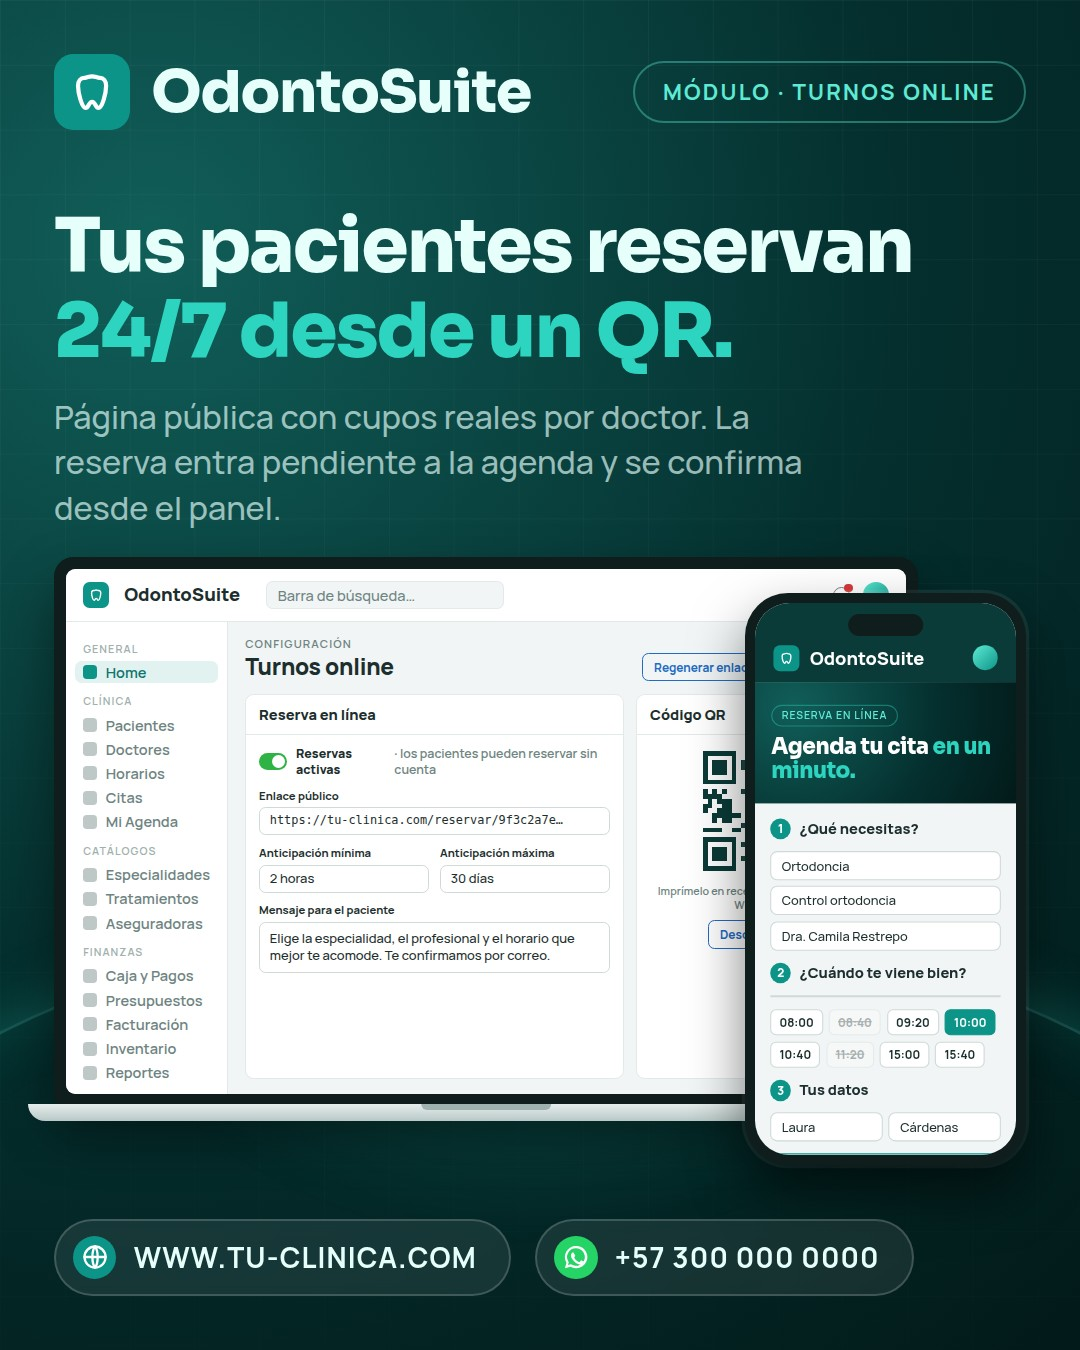
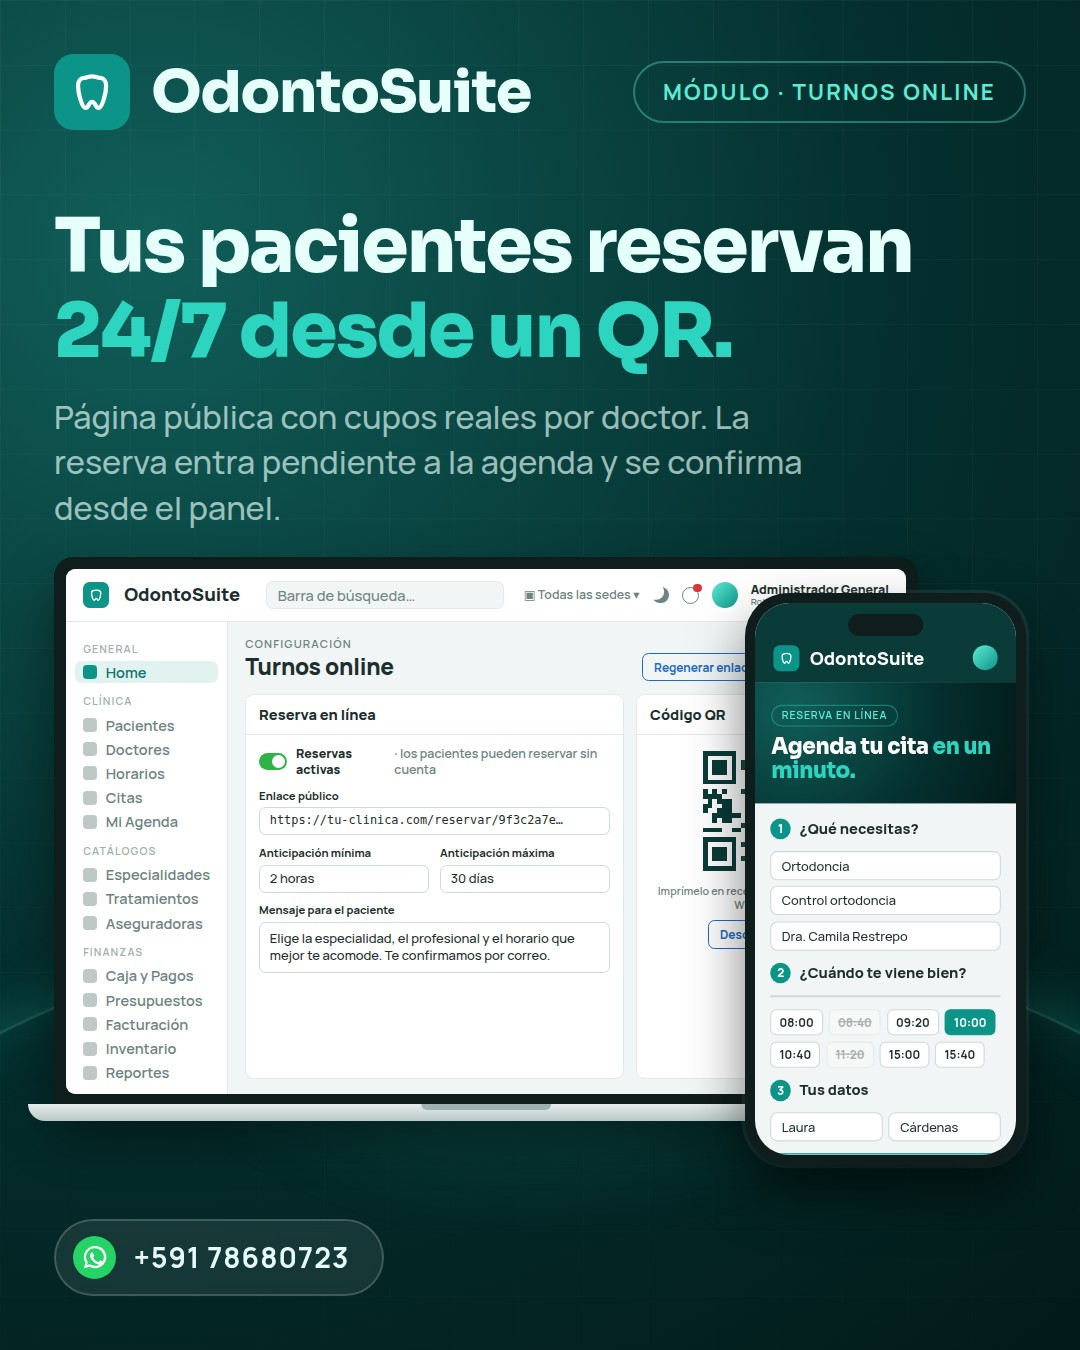
Dejar solo WhatsApp y rehacer el odontograma en arco
Se quita el sitio web de las piezas y queda únicamente el WhatsApp
+591 78680723. La pieza del odontograma ahora reproduce la pantalla real:
arcada superior en arco con paladar, atajos numéricos por hallazgo,
Pintar cara / Pieza completa, deshacer y rehacer, selector de sedes y
panel de caras de la pieza 16.

Claude-Session: https://claude.ai/code/session_017zrxF5B9L9htQGLorfkQio

diff --git a/docs/presentaciones/index.html b/docs/presentaciones/index.html
@@ -188,7 +188,6 @@ h1, h2, h3 { text-wrap: balance; }
 }
 .badge .ic { width: 4cqw; height: 4cqw; border-radius: 50%; display: grid; place-items: center; flex: none; }
 .badge .ic svg { width: 2.6cqw; height: 2.6cqw; }
-.badge.web .ic { background: var(--brand); }
 .badge.wa .ic { background: #25d366; }
 
 /* Formato 4:5 */
@@ -217,6 +216,7 @@ h1, h2, h3 { text-wrap: balance; }
 .grid[data-fmt="story"] .phone .screen { border-radius: 4.2cqw; }
 .grid[data-fmt="story"] .phone .island { width: 9cqw; height: 2.5cqw; top: 1.3cqw; }
 .grid[data-fmt="story"] .badges { margin-top: 5cqw; justify-content: center; gap: 2.5cqw; }
+.grid[data-fmt="story"] .badge { font-size: 3.2cqw; }
 .grid[data-fmt="story"] .badge { font-size: 2.7cqw; padding: 1.6cqw 3cqw 1.6cqw 1.8cqw; }
 .grid[data-fmt="story"] .badge .ic { width: 4.4cqw; height: 4.4cqw; }
 .grid[data-fmt="story"] .badge .ic svg { width: 3.2cqw; height: 3.2cqw; }
@@ -233,6 +233,11 @@ h1, h2, h3 { text-wrap: balance; }
 .ui-nav .search { flex: 1; max-width: 22cqw; margin-left: 1cqw; height: 2.6cqw; border-radius: .6cqw; border: .12cqw solid var(--ui-line); background: var(--ui-bg); color: var(--ui-muted); font-weight: 500; font-size: 1.35cqw; display: flex; align-items: center; padding-inline: 1cqw; }
 .ui-nav .right { margin-left: auto; display: flex; align-items: center; gap: 1.2cqw; }
 .dot { width: 2.4cqw; height: 2.4cqw; border-radius: 50%; background: linear-gradient(135deg, #5eead4, #0d9488); }
+.ui-nav .sedes { font-size: 1.15cqw; color: var(--ui-muted); white-space: nowrap; }
+.ui-nav .moon { width: 1.5cqw; height: 1.5cqw; border-radius: 50%; box-shadow: inset -.45cqw -.3cqw 0 0 var(--ui-muted); }
+.ui-nav .who { display: flex; flex-direction: column; line-height: 1.15; white-space: nowrap; }
+.ui-nav .who b { font-size: 1.15cqw; }
+.ui-nav .who small { font-size: .85cqw; color: var(--ui-muted); font-weight: 600; }
 .bell { position: relative; width: 1.6cqw; height: 1.6cqw; border-radius: 50%; border: .18cqw solid var(--ui-muted); }
 .bell::after { content: ""; position: absolute; top: -.35cqw; right: -.35cqw; width: .8cqw; height: .8cqw; border-radius: 50%; background: var(--ui-danger); }
 .ui-main { display: flex; flex: 1; min-height: 0; }
@@ -298,6 +303,17 @@ h1, h2, h3 { text-wrap: balance; }
 .crd .h > .hz-lbl { flex: none; font-size: 1.05cqw; letter-spacing: .08em; color: var(--ui-muted); }
 .hz { font-size: 1.05cqw; font-weight: 700; padding: .4cqw .8cqw; border-radius: .5cqw; border: .12cqw solid var(--c); color: var(--c); background: #fff; white-space: nowrap; }
 .hz.on { box-shadow: inset 0 0 0 .15cqw var(--c); }
+.hz .k { font-style: normal; font-size: .8cqw; background: #f1f5f5; color: #9fb0ae; border-radius: .3cqw; padding: 0 .35cqw; margin-left: .45cqw; }
+.hz-sm .hz { font-size: .88cqw; padding: .25cqw .5cqw; }
+.hz-sm .hz .k { font-size: .68cqw; margin-left: .3cqw; }
+.crd.arco-card { flex: 1; }
+.crd.arco-card .b { flex: 1; min-height: 0; display: flex; flex-direction: column; }
+.arco-wrap { flex: 1; min-height: 0; display: flex; justify-content: center; }
+.arco-svg { display: block; height: 100%; width: auto; max-width: 100%; }
+.odo-tools { display: flex; align-items: center; gap: .6cqw; font-size: 1.05cqw; color: var(--ui-muted); flex-wrap: wrap; }
+.odo-tools .tb { border: .12cqw solid #cfdad8; border-radius: .5cqw; padding: .4cqw .8cqw; color: var(--ui-ink); font-weight: 700; white-space: nowrap; background: #fff; }
+.odo-tools .tb.on { border-color: var(--ui-primary); color: var(--ui-primary); background: #eaf2fb; }
+.odo-tools .tb.rd { border-color: var(--ui-danger); color: var(--ui-danger); margin-left: auto; }
 .leg { display: flex; flex-wrap: wrap; gap: .4cqw 1cqw; font-size: .95cqw; color: var(--ui-muted); justify-content: center; }
 .leg span { display: inline-flex; align-items: center; gap: .35cqw; }
 .leg i { width: .8cqw; height: .8cqw; border-radius: .2cqw; border: .1cqw solid rgba(0,0,0,.2); }
@@ -374,19 +390,15 @@ body[data-export] .card { border-radius: 0; box-shadow: none; }
 <header class="toolbar" aria-label="Ajustes de las piezas">
   <div class="title">
     <h1>Odonto<span>Suite</span> · Presentaciones</h1>
-    <p>Piezas promocionales de los módulos principales. Cambia marca, contacto y formato; todas las piezas se actualizan a la vez.</p>
+    <p>Piezas promocionales de los módulos principales. Cambia marca, WhatsApp y formato; todas las piezas se actualizan a la vez.</p>
   </div>
   <div class="field">
     <label for="marca">Marca</label>
     <input id="marca" type="text" value="OdontoSuite" autocomplete="off">
   </div>
   <div class="field">
-    <label for="web">Sitio web</label>
-    <input id="web" type="text" value="WWW.TU-CLINICA.COM" autocomplete="off">
-  </div>
-  <div class="field">
     <label for="wa">WhatsApp</label>
-    <input id="wa" type="text" value="+57 300 000 0000" autocomplete="off">
+    <input id="wa" type="text" value="+591 78680723" autocomplete="off">
   </div>
   <div class="seg" role="radiogroup" aria-label="Formato">
     <span class="seg-label">Formato</span>
@@ -430,7 +442,7 @@ body[data-export] .card { border-radius: 0; box-shadow: none; }
     ['Catálogos', ['Especialidades', 'Tratamientos', 'Aseguradoras']],
     ['Finanzas', ['Caja y Pagos', 'Presupuestos', 'Facturación', 'Inventario', 'Reportes']],
   ];
-  const nav = (brand) => `<div class="ui-nav"><span class="mark">${tooth()}</span><b>${brand}</b><span class="search">Barra de búsqueda…</span><span class="right"><span class="bell"></span><span class="dot"></span></span></div>`;
+  const nav = (brand) => `<div class="ui-nav"><span class="mark">${tooth()}</span><b>${brand}</b><span class="search">Barra de búsqueda…</span><span class="right"><span class="sedes">▣ Todas las sedes ▾</span><span class="moon"></span><span class="bell"></span><span class="dot"></span><span class="who"><b>Administrador General</b><small>Rol: SUPER ADMINISTRADOR</small></span></span></div>`;
   const side = (active) => `<aside class="ui-side">${MODS.map(([g, items]) => `<div class="grp">${g}</div>` + items.map(n => `<div class="it ${n === active ? 'on' : ''}"><i></i>${n}</div>`).join('')).join('')}</aside>`;
   const shell = (brand, active, body) => `<div class="ui">${nav(brand)}<div class="ui-main">${side(active)}<div class="ui-body">${body}</div></div></div>`;
   const ph = (pre, title, actions = '') => `<div class="ph"><div><div class="pre">${pre}</div><h4>${title}</h4></div><div>${actions}</div></div>`;
@@ -468,7 +480,26 @@ body[data-export] .card { border-radius: 0; box-shadow: none; }
     <div class="arch"><div class="quad">${range(18, 11).map(n => pieza(n, active)).join('')}</div><div class="quad">${range(21, 28).map(n => pieza(n, active)).join('')}</div></div>
     <div class="arch"><div class="quad">${range(48, 41).map(n => pieza(n, active)).join('')}</div><div class="quad">${range(31, 38).map(n => pieza(n, active)).join('')}</div></div>
   </div>`;
+  /* Arcada superior en arco, con paladar y numeración por fuera */
+  const HALL_ARCO = { 16: { all: 'corona' }, 15: { o: 'corona' }, 14: { o: 'corona' }, 12: { all: 'movilidad' }, 21: { o: 'caries' }, 23: { all: 'obturado' } };
+  const arco = (active = 16) => {
+    const nums = [18, 17, 16, 15, 14, 13, 12, 11, 21, 22, 23, 24, 25, 26, 27, 28];
+    const cx = 200, cy = 205, rx = 168, ry = 178, S = 34;
+    const faces = (h) => { const f = (k) => EST[(h.all || h[k]) || 'sano']; return `<polygon points="4,4 30,4 23,11 11,11" fill="${f('v')}"/><polygon points="30,4 30,30 23,23 23,11" fill="${f('d')}"/><polygon points="4,30 11,23 23,23 30,30" fill="${f('l')}"/><polygon points="4,4 11,11 11,23 4,30" fill="${f('m')}"/><rect x="11" y="11" width="12" height="12" fill="${f('o')}"/>`; };
+    let g = '';
+    nums.forEach((n, i) => {
+      const t = Math.PI + 0.42 - (Math.PI + 0.84) * ((i + 0.5) / 16);
+      const x = cx + rx * Math.cos(t), y = cy - ry * Math.sin(t);
+      const lx = cx + (rx + 30) * Math.cos(t), ly = cy - (ry + 30) * Math.sin(t);
+      const rot = 90 - t * 180 / Math.PI;
+      const on = n === active;
+      g += `<g transform="translate(${x.toFixed(1)} ${y.toFixed(1)}) rotate(${rot.toFixed(1)})"><g transform="translate(${-S / 2} ${-S / 2})" stroke="${on ? '#0d9488' : '#6b7f7e'}" stroke-width="${on ? 2.2 : 1.3}"><rect x="0" y="0" width="${S}" height="${S}" rx="8" fill="#fff"/>${faces(HALL_ARCO[n] || {})}</g></g><text x="${lx.toFixed(1)}" y="${(ly + 4).toFixed(1)}" text-anchor="middle" font-size="12" font-weight="${on ? 800 : 700}" fill="${on ? '#0f766e' : '#3b4a49'}" font-family="Manrope">${n}</text>`;
+    });
+    return `<svg class="arco-svg" viewBox="0 0 400 270" aria-hidden="true"><path d="M118 258 C 128 130, 165 62, 200 62 C 235 62, 272 130, 282 258 Z" fill="rgba(214,57,57,.10)" stroke="rgba(214,57,57,.45)" stroke-dasharray="4 3"/><text x="200" y="200" text-anchor="middle" font-size="12" font-weight="800" letter-spacing="1.5" fill="#3b4a49" font-family="Manrope">SUPERIOR</text>${g}</svg>`;
+  };
   const HZ = [['Caries', EST.caries], ['Fractura', EST.fractura], ['Extracción', EST.extraccion], ['Movilidad', EST.movilidad], ['Obturado', EST.obturado], ['Corona', EST.corona], ['Endodoncia', EST.endodoncia], ['Sellante', EST.sellante], ['Implante', EST.implante], ['Prótesis', EST.protesis], ['Ausente', EST.ausente]];
+  const KEYS = { Caries: 1, Fractura: 2, 'Extracción': 3, Movilidad: 4, Obturado: 5, Corona: 6, Endodoncia: 7, Sellante: 8, Implante: 9 };
+  const hallazgosTeclas = (on = 'Corona') => `<div class="hallazgos">${HZ.map(([n, c]) => `<span class="hz ${n === on ? 'on' : ''}" style="--c:${c}">${n}${KEYS[n] ? `<i class="k">${KEYS[n]}</i>` : ''}</span>`).join('')}<span class="hz" style="--c:#6f8482">⌫ Borrar<i class="k">0</i></span></div>`;
   const hallazgos = (on = 'Caries') => `<div class="hallazgos">${HZ.map(([n, c]) => `<span class="hz ${n === on ? 'on' : ''}" style="--c:${c}">${n}</span>`).join('')}</div>`;
   const leyenda = `<div class="leg">${HZ.slice(0, 8).map(([n, c]) => `<span><i style="background:${c}"></i>${n}</span>`).join('')}</div>`;
   const faceBig = `<svg class="face-big" viewBox="0 0 100 100" aria-hidden="true"><g stroke="#3b4a49" stroke-width="1.2"><polygon points="2,2 98,2 72,28 28,28" fill="${EST.caries}"/><polygon points="98,2 98,98 72,72 72,28" fill="#fff"/><polygon points="2,98 28,72 72,72 98,98" fill="#fff"/><polygon points="2,2 28,28 28,72 2,98" fill="#fff"/><rect x="28" y="28" width="44" height="44" fill="${EST.caries}"/></g><text x="50" y="18" text-anchor="middle" font-size="7" font-weight="800" fill="#fff" font-family="Manrope">VESTIBULAR</text><text x="50" y="88" text-anchor="middle" font-size="7" font-weight="800" fill="#3b4a49" font-family="Manrope">LINGUAL</text><text x="50" y="52" text-anchor="middle" font-size="6.5" font-weight="800" fill="#fff" font-family="Manrope">OCLUSAL</text><text x="14" y="52" text-anchor="middle" font-size="6" font-weight="800" fill="#3b4a49" font-family="Manrope" transform="rotate(-90 14 52)">MESIAL</text><text x="86" y="52" text-anchor="middle" font-size="6" font-weight="800" fill="#3b4a49" font-family="Manrope" transform="rotate(90 86 52)">DISTAL</text></svg>`;
@@ -547,13 +578,16 @@ body[data-export] .card { border-radius: 0; box-shadow: none; }
       h: `Odontograma interactivo <em>por pieza y cara.</em>`,
       p: 'Numeración FDI, adulto e infantil, 11 hallazgos por capas y presupuesto generado desde los hallazgos.',
       laptop: shell(b, 'Pacientes', ph('Historia clínica · Valentina Ríos', 'Odontograma adulto', `<span class="btn o sm">Generar presupuesto</span> <span class="btn brand sm">Guardar</span>`) +
-        `<div class="cols" style="grid-template-columns:1fr">${crd(`<span class="hz-lbl">HALLAZGO:</span>${hallazgos('Caries')}`, `<div class="b" style="display:flex;flex-direction:column;gap:.9cqw">${odonto(16)}${leyenda}</div>`)}</div>`),
+        `<div class="cols" style="grid-template-columns:2.1fr 1fr">${crd(`<span class="hz-lbl">HALLAZGO:</span><span class="hz-sm" style="display:contents">${hallazgosTeclas('Corona')}</span>`, `<div class="b" style="gap:.7cqw;padding-top:.7cqw">
+          <div class="odo-tools"><span class="tb on">▢ Pintar cara</span><span class="tb">Pieza completa</span><span class="tb">↶</span><span class="tb">↷</span><span>⌨ 1-9 hallazgo · ← → pieza</span><span class="tb rd">⌫ Limpiar todo</span></div>
+          <div class="arco-wrap">${arco(16)}</div></div>`).replace('class="crd"', 'class="crd arco-card"')}
+        ${crd('Pieza 16', `<div class="b" style="display:flex;flex-direction:column;gap:.7cqw"><div style="width:9cqw;margin:0 auto">${faceBig.split(EST.caries).join(EST.corona)}</div><div style="font-size:.95cqw;color:var(--ui-muted);text-align:center">Toca una cara para aplicarle el hallazgo elegido.</div><div class="lbl">PIEZA COMPLETA</div>${hallazgos('Corona')}<div class="lbl">CARAS</div><div class="caras"><span>Vestibular</span><span class="sel"><i style="background:#fff;border:.1cqw solid #cfdad8"></i>Sano ▾</span><span>Lingual</span><span class="sel"><i style="background:#fff;border:.1cqw solid #cfdad8"></i>Sano ▾</span></div></div>`, '1er molar superior')}</div>`),
       phone: pshell(b, 'Pacientes', `<div style="display:flex;align-items:center;justify-content:space-between"><div style="font-size:1.6cqw;font-weight:800">Pieza 16</div>${pill('1er molar superior', PR)}</div>
-        <div style="width:11cqw;margin:0 auto">${faceBig}</div>
+        <div style="width:11cqw;margin:0 auto">${faceBig.split(EST.caries).join(EST.corona)}</div>
         <div style="font-size:.95cqw;color:var(--ui-muted);text-align:center;font-weight:500">Toca una cara para aplicarle el hallazgo elegido.</div>
-        <div class="lbl">PIEZA COMPLETA</div>${hallazgos('Caries')}
+        <div class="lbl">PIEZA COMPLETA</div>${hallazgos('Corona')}
         <div class="lbl" style="margin-top:.3cqw">CARAS</div>
-        <div class="caras"><span>Vestibular</span><span class="sel"><i style="background:${EST.caries}"></i>Caries</span><span>Oclusal</span><span class="sel"><i style="background:${EST.caries}"></i>Caries</span><span>Lingual</span><span class="sel"><i style="background:#fff;border:.1cqw solid #cfdad8"></i>Sano</span><span>Mesial</span><span class="sel"><i style="background:#fff;border:.1cqw solid #cfdad8"></i>Sano</span></div>`),
+        <div class="caras"><span>Vestibular</span><span class="sel"><i style="background:${EST.corona}"></i>Corona</span><span>Oclusal</span><span class="sel"><i style="background:${EST.corona}"></i>Corona</span><span>Lingual</span><span class="sel"><i style="background:#fff;border:.1cqw solid #cfdad8"></i>Sano</span><span>Mesial</span><span class="sel"><i style="background:#fff;border:.1cqw solid #cfdad8"></i>Sano</span></div>`),
     },
     {
       chip: 'Módulo · Historia Clínica',
@@ -656,8 +690,7 @@ body[data-export] .card { border-radius: 0; box-shadow: none; }
 
   function render() {
     const brand = esc($('marca').value.trim() || 'OdontoSuite');
-    const web = esc($('web').value.trim() || 'WWW.TU-CLINICA.COM');
-    const wa = esc($('wa').value.trim() || '+57 300 000 0000');
+    const wa = esc($('wa').value.trim() || '+591 78680723');
     const piezas = PIEZAS(brand);
     grid.innerHTML = piezas.map((p, i) => `<article class="post" data-n="${i + 1}">
       <div class="card">
@@ -668,7 +701,7 @@ body[data-export] .card { border-radius: 0; box-shadow: none; }
           <div class="laptop"><div class="lid"><div class="screen">${p.laptop}</div></div><div class="base"></div></div>
           <div class="phone"><div class="body"><div class="screen"><span class="island"></span>${p.phone}</div></div></div>
         </div>
-        <div class="badges"><span class="badge web"><span class="ic">${globe}</span>${web}</span><span class="badge wa"><span class="ic">${wapp}</span>${wa}</span></div>
+        <div class="badges"><span class="badge wa"><span class="ic">${wapp}</span>${wa}</span></div>
       </div>
       <div class="post-label"><b>${String(i + 1).padStart(2, '0')} · ${p.chip.replace('Módulo · ', '')}</b><span>${esc(brand)}</span></div>
     </article>`).join('');
@@ -677,23 +710,21 @@ body[data-export] .card { border-radius: 0; box-shadow: none; }
   /* Preferencias por visitante */
   const KEY = 'odontosuite-presentaciones';
   const load = () => { try { return JSON.parse(localStorage.getItem(KEY) || '{}'); } catch { return {}; } };
-  const save = () => { try { localStorage.setItem(KEY, JSON.stringify({ marca: $('marca').value, web: $('web').value, wa: $('wa').value, fmt: grid.dataset.fmt })); } catch {} };
+  const save = () => { try { localStorage.setItem(KEY, JSON.stringify({ marca: $('marca').value, wa: $('wa').value, fmt: grid.dataset.fmt })); } catch {} };
 
   const params = new URLSearchParams(location.search);
   const pref = params.has('export') ? {} : load();
   if (pref.marca) $('marca').value = pref.marca;
-  if (pref.web) $('web').value = pref.web;
   if (pref.wa) $('wa').value = pref.wa;
   const fmt = params.get('fmt') || pref.fmt || 'square';
   grid.dataset.fmt = fmt;
   const radio = document.querySelector(`input[name="fmt"][value="${fmt}"]`);
   if (radio) radio.checked = true;
   if (params.has('marca')) $('marca').value = params.get('marca');
-  if (params.has('web')) $('web').value = params.get('web');
   if (params.has('wa')) $('wa').value = params.get('wa');
   if (params.has('export')) document.body.dataset.export = '1';
 
-  ['marca', 'web', 'wa'].forEach(id => $(id).addEventListener('input', () => { render(); save(); }));
+  ['marca', 'wa'].forEach(id => $(id).addEventListener('input', () => { render(); save(); }));
   document.querySelectorAll('input[name="fmt"]').forEach(r => r.addEventListener('change', () => { grid.dataset.fmt = r.value; save(); }));
   render();
 })();

diff --git a/docs/presentaciones/README.md b/docs/presentaciones/README.md
@@ -5,7 +5,7 @@ sobre el fondo de marca del sistema.
 
 - `index.html` — página responsive con las 9 piezas. Cada pieza escala con el ancho
   disponible, así que se ve igual en móvil, tablet o pantalla grande. Desde la barra
-  superior se cambia marca, sitio web, WhatsApp y formato (1:1, 4:5 y 9:16); los
+  superior se cambia marca, WhatsApp y formato (1:1, 4:5 y 9:16); los
   cambios se aplican a todas las piezas a la vez.
 - `img/` — exportaciones listas para publicar (1080 px de ancho, JPG):
   `post-1x1/`, `feed-4x5/` y `historia-9x16/`.
@@ -13,7 +13,7 @@ sobre el fondo de marca del sistema.
 
 ```bash
 npm i -D playwright && npx playwright install chromium
-node docs/presentaciones/exportar.mjs --marca "Mi Clínica" --web "WWW.MICLINICA.COM" --wa "+57 300 000 0000"
+node docs/presentaciones/exportar.mjs --marca "Mi Clínica" --wa "+57 300 000 0000"
 ```
 
 Piezas incluidas: portada del sistema, panel de control, citas y agenda, odontograma,
